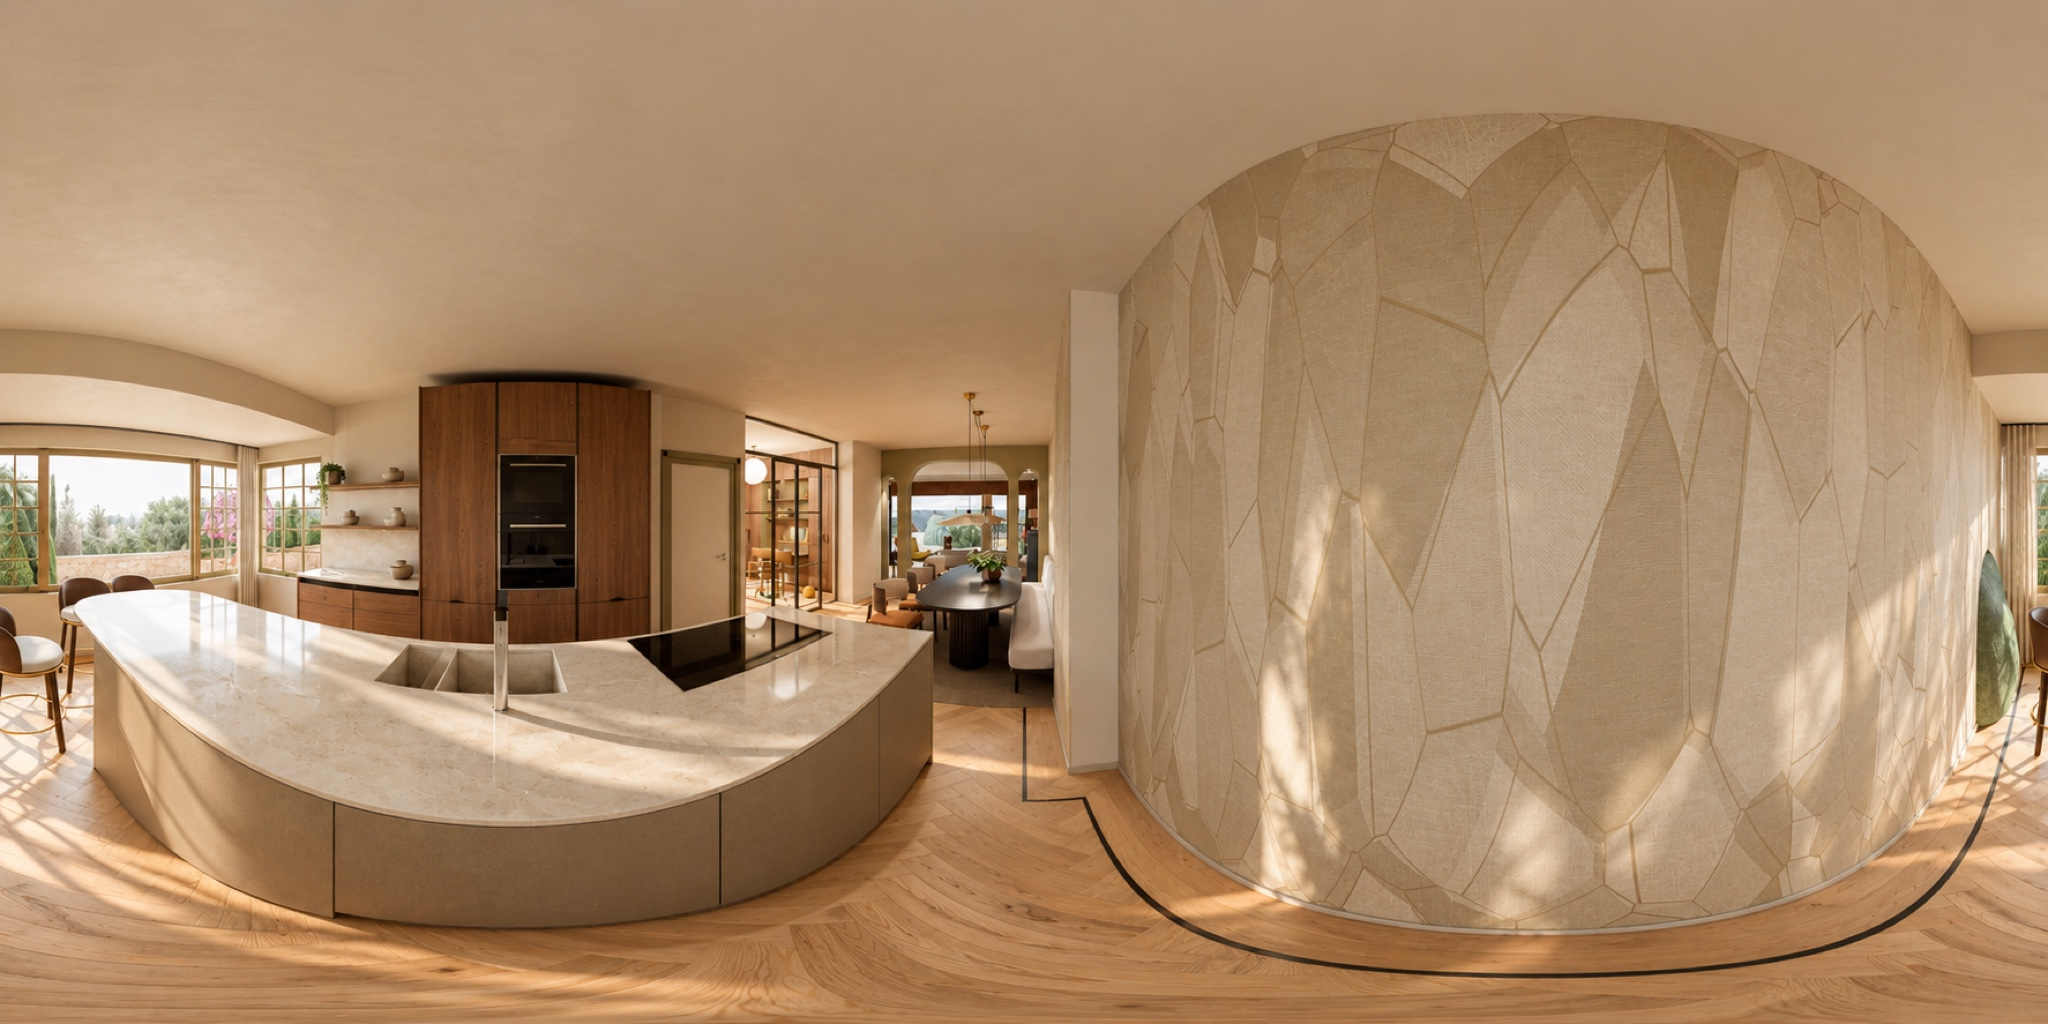
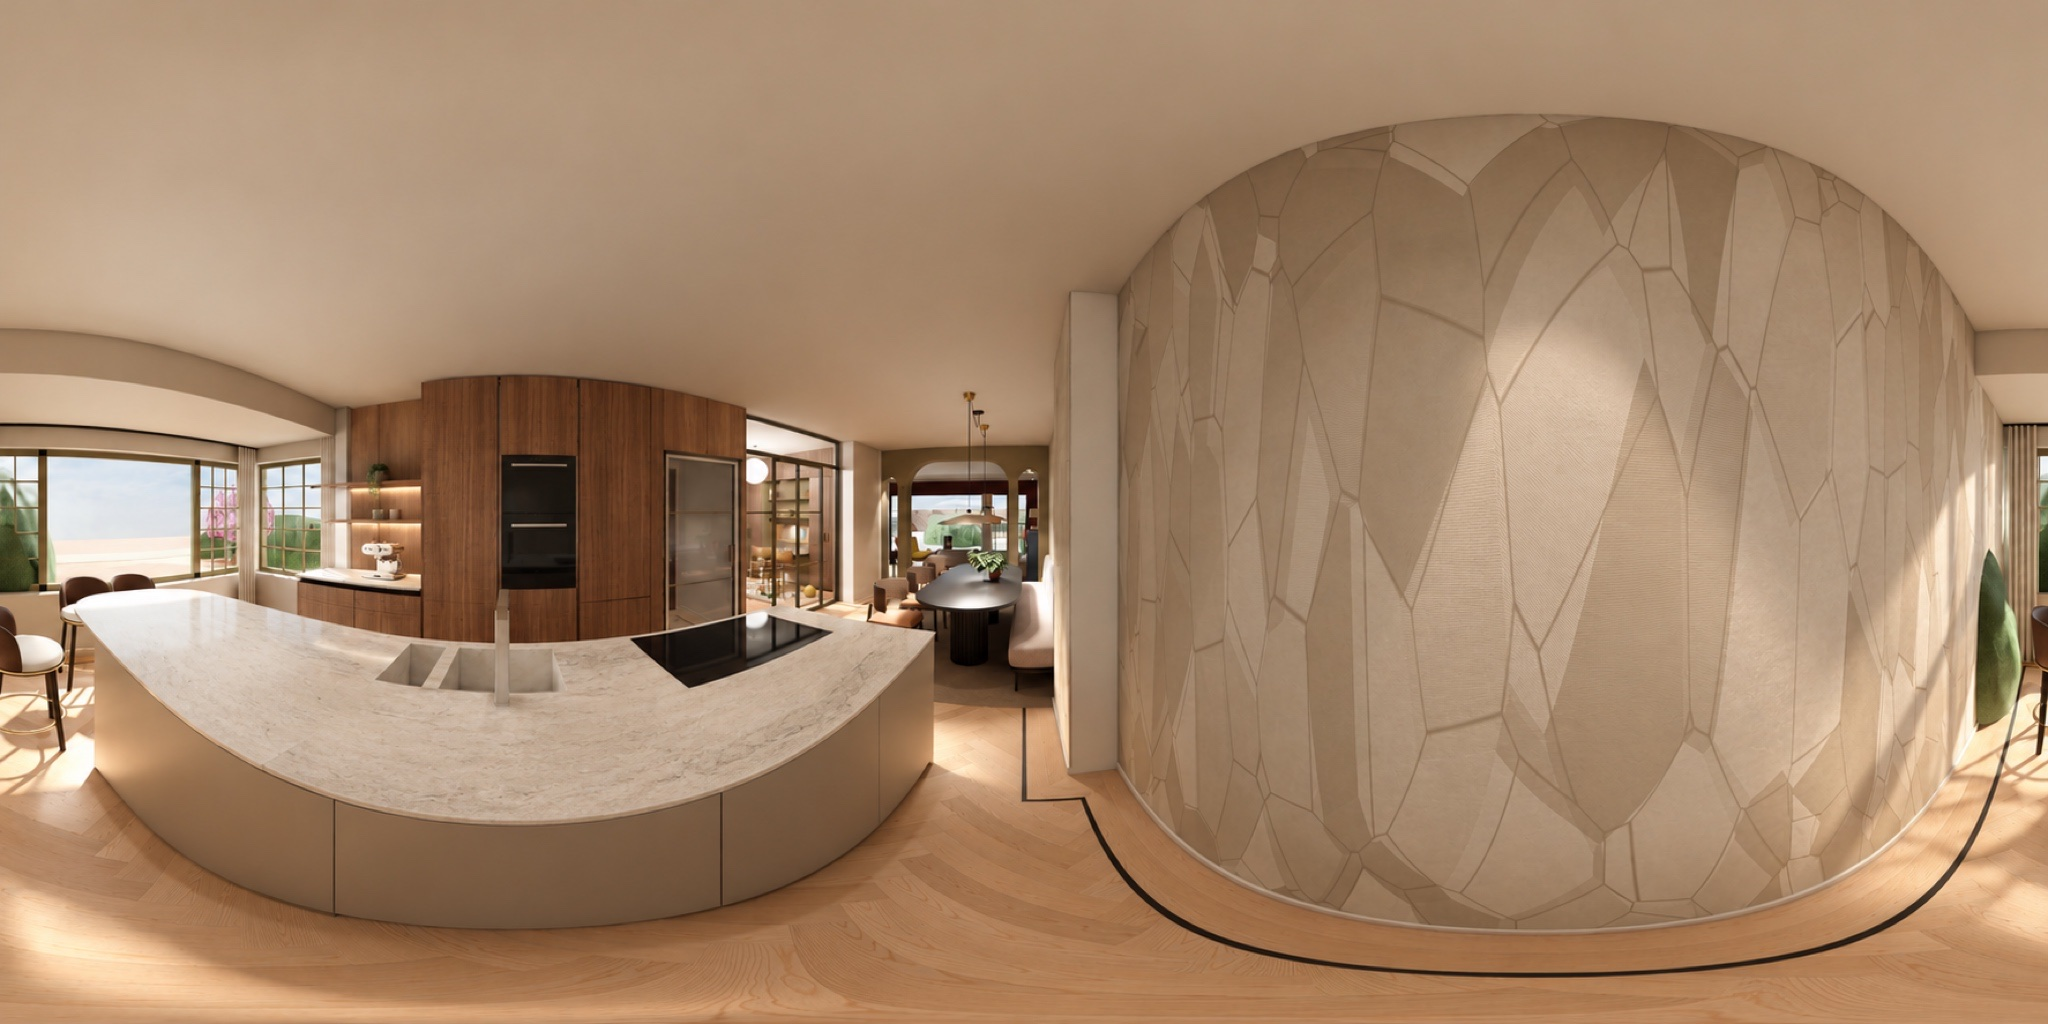
Fotorealistische avondversies voor alle punten; nieuwe foto's slaapkamer, badkamer, keuken met glasdeur

diff --git a/index.html b/index.html
@@ -101,7 +101,7 @@
 </aside>
 <nav class="kamers" id="kamers" aria-label="Ruimtes"></nav>
 <div class="hint" id="hint">Sleep om rond te kijken · klik op de pijlen om te lopen</div>
-<footer>Fotorealistisch: AI-bewerking van de Blender-renders. 3D-model en avond: Blender (gordijnen dicht, lampen en kaarsen aan). Kleuren en materialen zijn benaderingen.</footer>
+<footer>Fotorealistisch: AI-bewerking van de Blender-renders. 3D-model: Blender. Avond: gordijnen dicht, lampen en kaarsen aan. Kleuren en materialen zijn benaderingen.</footer>
 
 <script>
 // standplaatsen (Blender-meters; vloer woonkamer -0,20) en plattegrond-omrekening (uit plan.json)
@@ -134,7 +134,7 @@ const LINKS = {
   badkamer:   [['slaapkamer', [4.25, -3.85]]],
 };
 const VOLGORDE = ['woonkamer', 'vleugel', 'eetzone', 'keuken', 'erker', 'eiland', 'speelkamer', 'hal', 'slaapkamer', 'slaapkamerbed', 'badkamer'];
-const HEEFT_FOTO = new Set(['eetzone', 'eiland', 'erker', 'hal', 'keuken', 'speelkamer', 'vleugel', 'woonkamer']);   // AI-versies die er zijn
+const HEEFT_FOTO = new Set(['badkamer-avond', 'badkamer', 'eetzone-avond', 'eetzone', 'eiland-avond', 'eiland', 'erker-avond', 'erker', 'hal-avond', 'hal', 'keuken-avond', 'keuken', 'slaapkamer-avond', 'slaapkamer', 'slaapkamerbed-avond', 'slaapkamerbed', 'speelkamer-avond', 'speelkamer', 'vleugel-avond', 'vleugel', 'woonkamer-avond', 'woonkamer']);   // AI-versies die er zijn
 const deg = r => r * 180 / Math.PI;
 // midden van het panorama = +Y (tuinzijde); yaw naar rechts = +X
 function richting(a, p) {
@@ -147,10 +147,10 @@ function maakSpot(div, args) {
   div.innerHTML = pijl + '<span>' + args + '</span>';
 }
 const scenes = {};
-// scène-id = <plek>~<versie>~<moment>; 's avonds is er (nog) alleen het 3D-model
+// scène-id = <plek>~<versie>~<moment>; zonder fotorealistische versie valt de site terug op het 3D-model
 function bestand(id, v, m) {
-  if (m === 'avond') return 'pano/' + id + '-avond.jpg';
-  return v === 'foto' && HEEFT_FOTO.has(id) ? 'pano/' + id + '-fotorealistisch.jpg' : 'pano/' + id + '.jpg';
+  const naam = m === 'avond' ? id + '-avond' : id;
+  return v === 'foto' && HEEFT_FOTO.has(naam) ? 'pano/' + naam + '-fotorealistisch.jpg' : 'pano/' + naam + '.jpg';
 }
 let versie = 'foto', moment = 'dag';
 const sceneId = (id, v = versie, m = moment) => id + '~' + v + '~' + m;
@@ -178,16 +178,12 @@ const viewer = pannellum.viewer('pano', {
 const ga = id => viewer.loadScene(sceneId(id));
 function herlaad() {
   viewer.loadScene(sceneId(kaal(viewer.getScene())), viewer.getPitch(), viewer.getYaw(), viewer.getHfov());
-  // 's avonds geen fotorealistische versie: dan toont de site het 3D-model
-  document.querySelectorAll('#versie button').forEach(b => {
-    b.classList.toggle('actief', moment === 'dag' ? b.dataset.v === versie : b.dataset.v === 'model');
-    b.disabled = moment === 'avond';
-  });
+  document.querySelectorAll('#versie button').forEach(b => b.classList.toggle('actief', b.dataset.v === versie));
   document.querySelectorAll('#moment button').forEach(b => b.classList.toggle('actief', b.dataset.m === moment));
 }
 document.querySelectorAll('#versie button').forEach(b => b.onclick = () => { if (b.dataset.v !== versie) { versie = b.dataset.v; herlaad(); } });
 document.querySelectorAll('#moment button').forEach(b => b.onclick = () => { if (b.dataset.m !== moment) { moment = b.dataset.m; herlaad(); } });
-document.querySelector('#moment button[data-m="avond"]').title = "Gordijnen dicht, lampen en kaarsen aan (3D-model)";
+document.querySelector('#moment button[data-m="avond"]').title = "Gordijnen dicht, lampen en kaarsen aan";
 
 // plattegrond: stippen + kijkrichting
 const plan = document.getElementById('plan');
